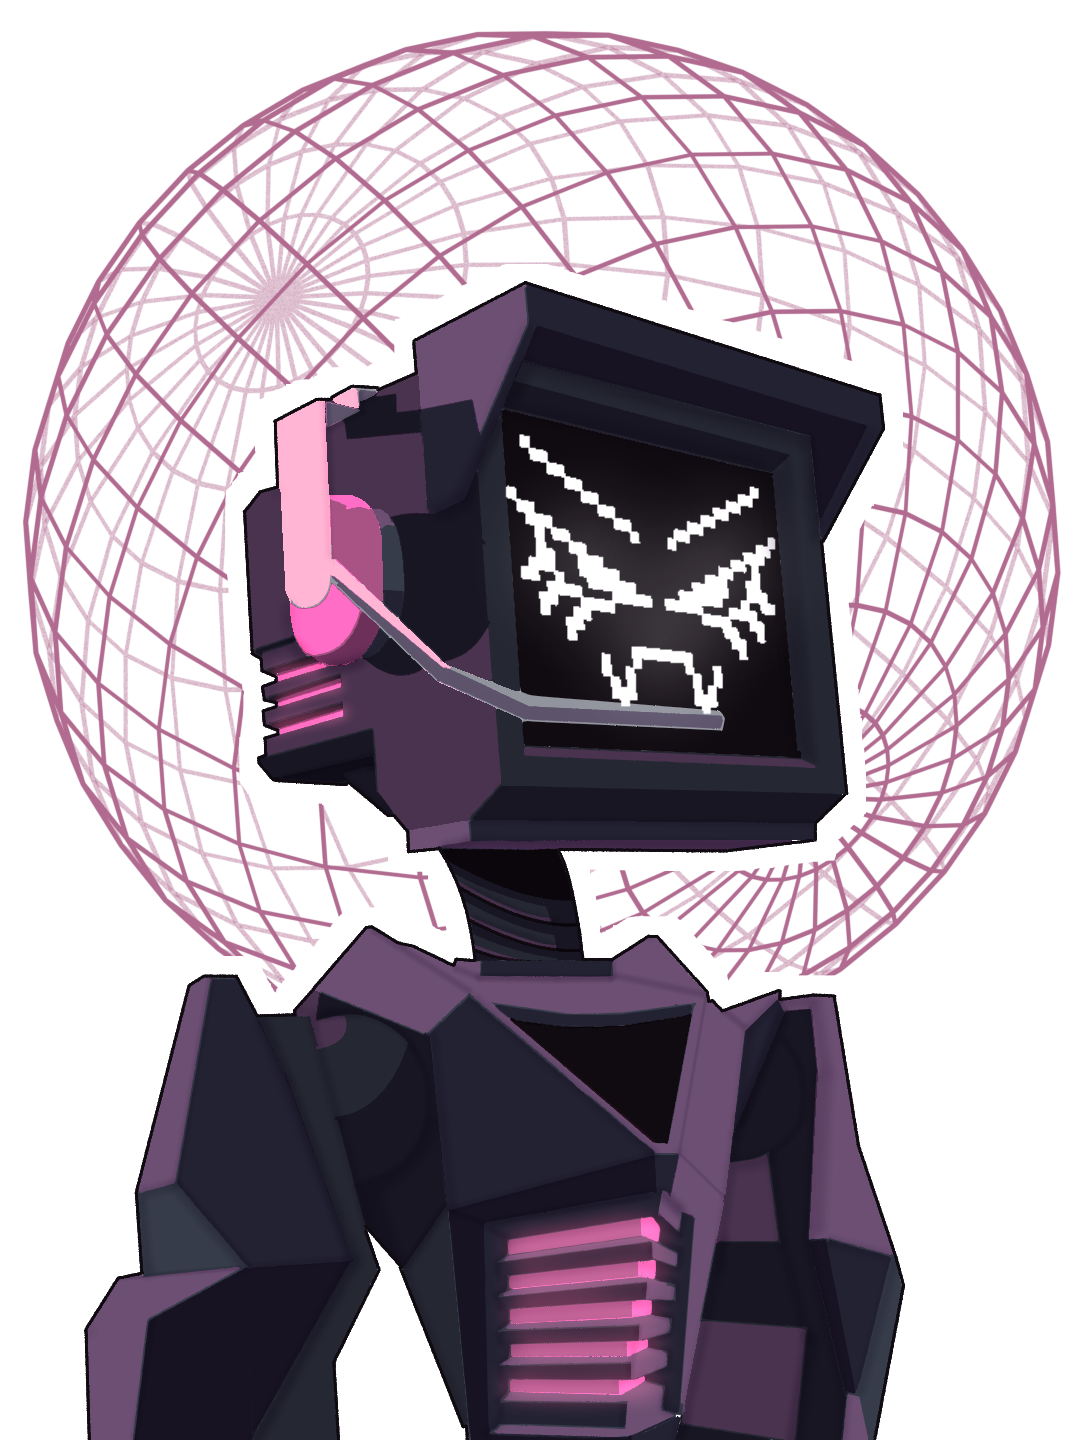
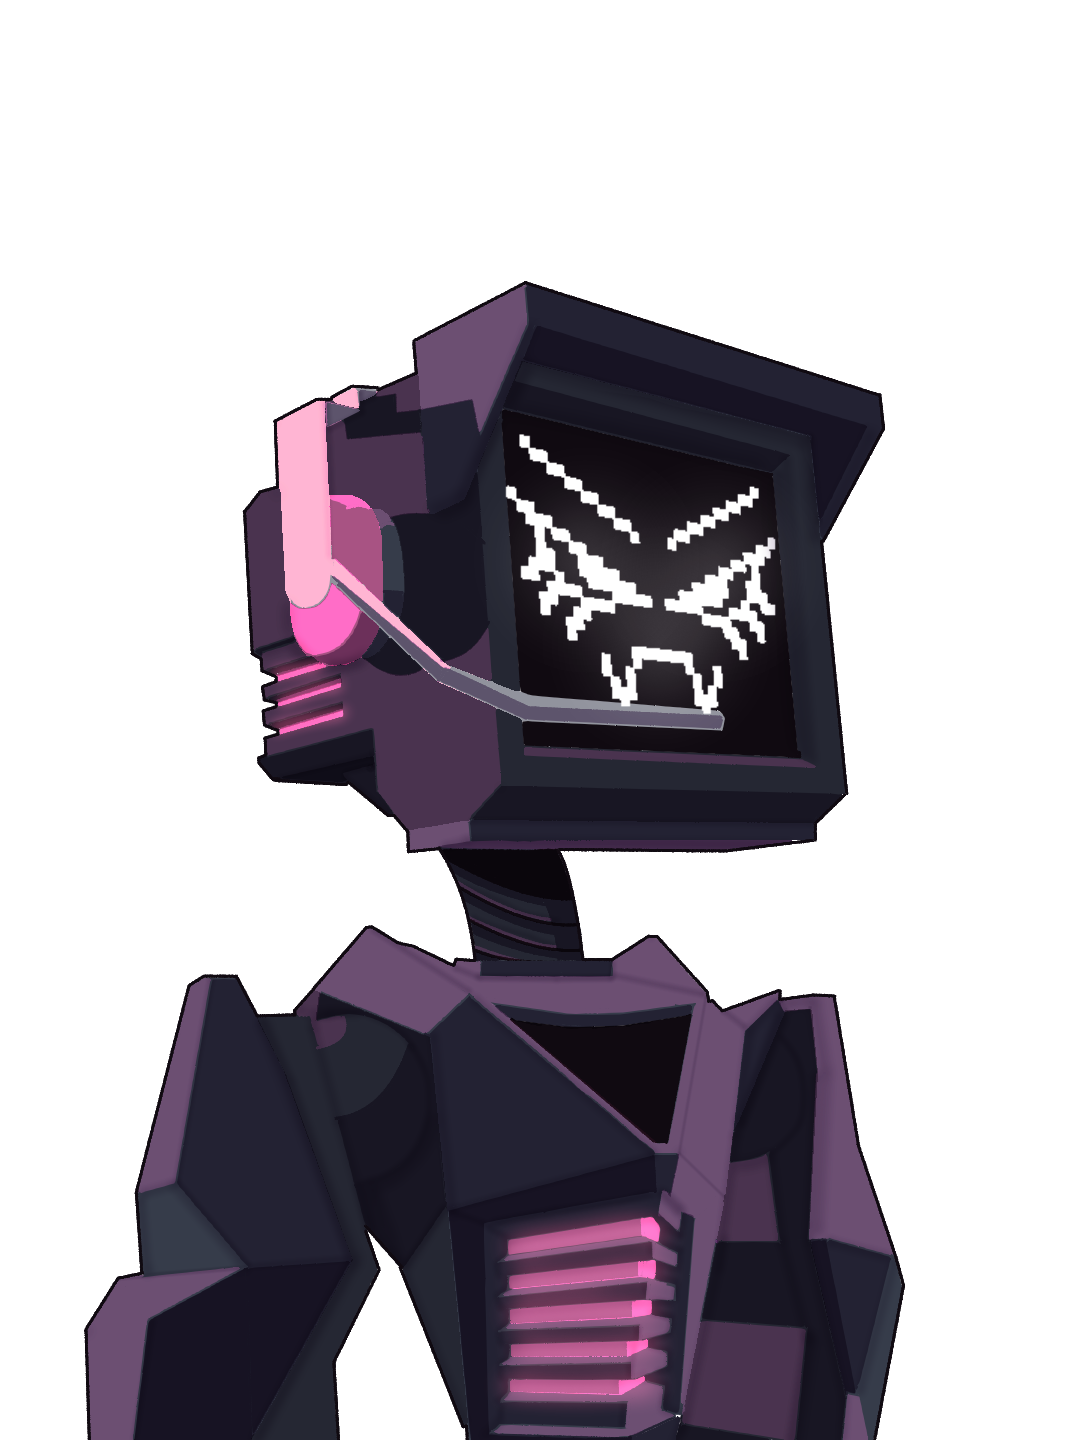
art overhaul

Changed region(s): [[0.0, 0.0, 1.0, 0.6875], [0.3972, 0.625, 0.4278, 0.6562]]

diff --git a/src/components/Page/PageDisplaySection.tsx b/src/components/Page/PageDisplaySection.tsx
@@ -1,4 +1,5 @@
 import marathonText from "@/assets/Vector/marathon_text.svg";
+import pattern from "@/assets/Vector/pattern.svg";
 import { ReactNode } from "react";
 
 type Properties = {
@@ -7,19 +8,31 @@ type Properties = {
 
 export default function PageDisplaySection({ children }: Properties) {
   return (
-    <section className="p-0 relative flex flex-col w-full bg-black h-[calc(100svh-var(--navbar-height))]">
+    <section className="p-0 relative flex flex-col w-full h-[calc(100svh-var(--navbar-height))]">
       {/* Main Display */}
       <div className="relative flex-1 overflow-hidden">{children}</div>
 
       {/* Bottom strip */}
-      <div className="relative p-3 h-(--navbar-height) w-full overflow-hidden bg-background-highlight flex items-center justify-center">
+      <section className="relative py-3 h-(--navbar-height) w-full overflow-hidden bg-background-highlight flex items-center justify-center md:justify-between">
+        <img
+          src={pattern}
+          alt=""
+          aria-hidden="true"
+          className="hidden md:block h-full w-auto max-w-full object-contain"
+        />
         <img
           src={marathonText}
           alt=""
           aria-hidden="true"
           className="h-full w-auto max-w-full object-contain invert"
         />
-      </div>
+        <img
+          src={pattern}
+          alt=""
+          aria-hidden="true"
+          className="hidden md:block h-full w-auto max-w-full object-contain"
+        />
+      </section>
     </section>
   );
 }

diff --git a/src/pages/Home/components/HomePageIntroSection.tsx b/src/pages/Home/components/HomePageIntroSection.tsx
@@ -1,7 +1,7 @@
 import PageContentSection from "@/components/Page/PageContentSection";
 import { ImageContentContainer } from "@/components/ContentContainer/ImageContentContainer";
 import TextContentContainer from "@/components/ContentContainer/TextContentContainer";
-import illustration from "@/assets/signalis_test.jpg";
+import fayeFiredUp from "@/assets/Faye/faye_fired_up.png";
 
 const PARAGRAPHS = [
   `This site was initially intended to be a repository of my game reviews, something to do whilst I was burnt out from other projects, 
@@ -21,7 +21,7 @@ export default function HomePageIntroSection() {
       <div className="flex flex-col gap-3 md:flex-row">
         {/* Image column */}
         <div className="flex flex-3">
-          <ImageContentContainer title="Faye" image={illustration} />
+          <img className="w-full object-cover" src={fayeFiredUp} alt={"Faye"} />
         </div>
 
         {/* Text column */}

diff --git a/src/pages/Reviews/components/ReviewsPageDisplaySection.tsx b/src/pages/Reviews/components/ReviewsPageDisplaySection.tsx
@@ -1,6 +1,7 @@
 import PageDisplaySection from "@/components/Page/PageDisplaySection";
 import BackgroundRings from "@/components/Background/BackgroundRings";
-import BackgroundDisplayTitle from "@/components/Background/BackgroundDisplayTitle";
+import PageDisplayTitle from "@/components/Page/PageDisplayTitle";
+import fayePoint from "@/assets/Faye/faye_point.png";
 
 export default function ReviewsPageDisplaySection() {
   return (
@@ -9,7 +10,15 @@ export default function ReviewsPageDisplaySection() {
       <BackgroundRings />
 
       {/* Title */}
-      <BackgroundDisplayTitle title="Reviews" />
+      <PageDisplayTitle title="Reviews" />
+
+      {/* Main image */}
+      <img
+        src={fayePoint}
+        alt="Faye"
+        aria-hidden="true"
+        className="pointer-events-none absolute object-cover bottom-0 left-1/2 -translate-x-1/2 z-2 h-full"
+      />
     </PageDisplaySection>
   );
 }

diff --git a/src/pages/HallOfFame/components/HallOfFameDisplaySection.tsx b/src/pages/HallOfFame/components/HallOfFameDisplaySection.tsx
@@ -1,6 +1,6 @@
 import PageDisplaySection from "@/components/Page/PageDisplaySection";
 import fayeConfused from "@/assets/Faye/faye_confused.png";
-import BackgroundDisplayTitle from "@/components/Background/BackgroundDisplayTitle";
+import PageDisplayTitle from "@/components/Page/PageDisplayTitle";
 
 export default function HallOfFameDisplaySection() {
   return (
@@ -12,7 +12,7 @@ export default function HallOfFameDisplaySection() {
         className="pointer-events-none absolute object-cover bottom-0 left-1/2 -translate-x-1/2 z-2 h-full"
       />
       {/* Title */}
-      <BackgroundDisplayTitle title="Hall of fame" />
+      <PageDisplayTitle title="Hall of fame" />
     </PageDisplaySection>
   );
 }

diff --git a/src/pages/HallOfFame/components/HallOfFameIntroSection.tsx b/src/pages/HallOfFame/components/HallOfFameIntroSection.tsx
@@ -1,7 +1,7 @@
 import { ImageContentContainer } from "@/components/ContentContainer/ImageContentContainer";
 import PageContentSection from "@/components/Page/PageContentSection";
 import TextContentContainer from "@/components/ContentContainer/TextContentContainer";
-import underConstruction from "@/assets/Backgrounds/under_construction.webp";
+import underConstruction from "@/assets/under_construction.webp";
 
 const PARAGRAPHS = [
   `This page is not complete! It takes me a while to evaluate my thoughts on all the games i have played! Please bear with me whilst this section is still being made!`,

diff --git a/src/components/Page/PageDisplayTitle.tsx b/src/components/Page/PageDisplayTitle.tsx
@@ -5,9 +5,9 @@ type Properties = {
   title: string;
 };
 
-export default function BackgroundDisplayTitle({ title }: Properties) {
+export default function PageDisplayTitle({ title }: Properties) {
   return (
-    <div className="relative z-10 flex flex-col items-center gap-2 sm:mt-10 mix-blend-exclusion p-2">
+    <div className="relative z-10 flex flex-col items-center gap-2 sm:mt-10 p-2">
       <img src={decorativeHeader} className="mx-auto" />
       <h1 className="text-text-primary sm:text-7xl text-center h-auto">
         {title.toUpperCase()}

diff --git a/src/components/Game/GameEntryList/components/GameEntry.tsx b/src/components/Game/GameEntryList/components/GameEntry.tsx
@@ -40,7 +40,7 @@ export default function GameEntry({ game }: Properties) {
           </div>
         </div>
       </a>
-      <div className="flex flex-col items-center gap-2 pl-3 text-text-primary">
+      <div className="hidden sm:block flex-col items-center gap-2 pl-3 text-text-primary">
         <QrCode size={24} />
         <span className="font-barcode text-2xl whitespace-nowrap [writing-mode:vertical-rl] rotate-180">
           {ratingLabel}

diff --git a/src/pages/Home/components/HomePageDisplaySection.tsx b/src/pages/Home/components/HomePageDisplaySection.tsx
@@ -1,5 +1,5 @@
 import PageDisplaySection from "@/components/Page/PageDisplaySection";
-import fayeStand from "@/assets/Faye/faye_stand_no_sphere.png";
+import fayeStand from "@/assets/Faye/faye_stand.png";
 import titleName from "@/assets/Vector/title_name.svg";
 import BackgroundRings from "@/components/Background/BackgroundRings";
 
